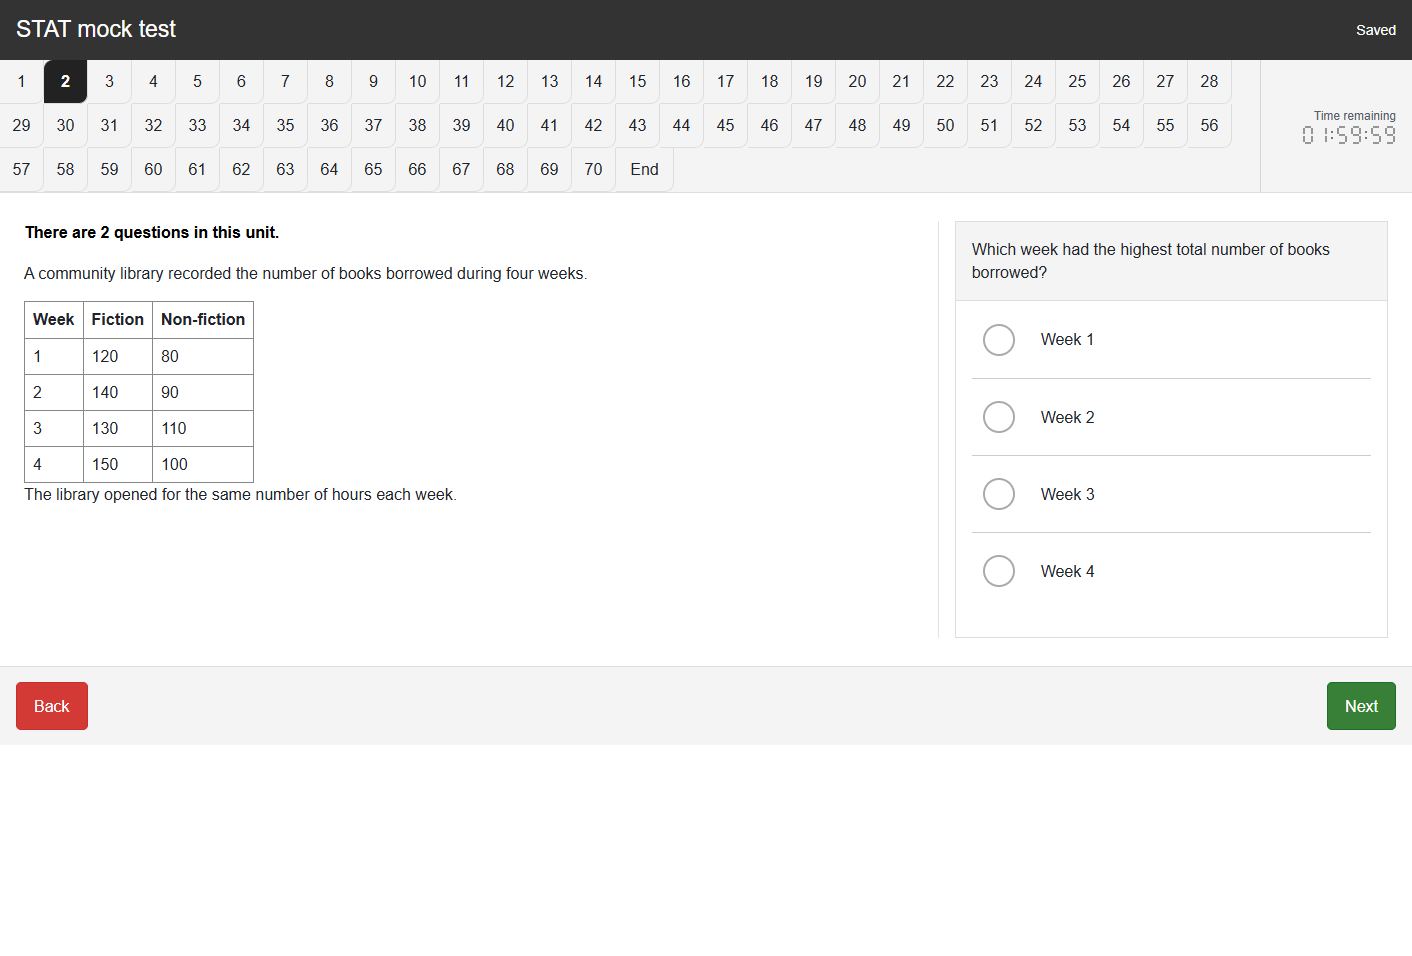
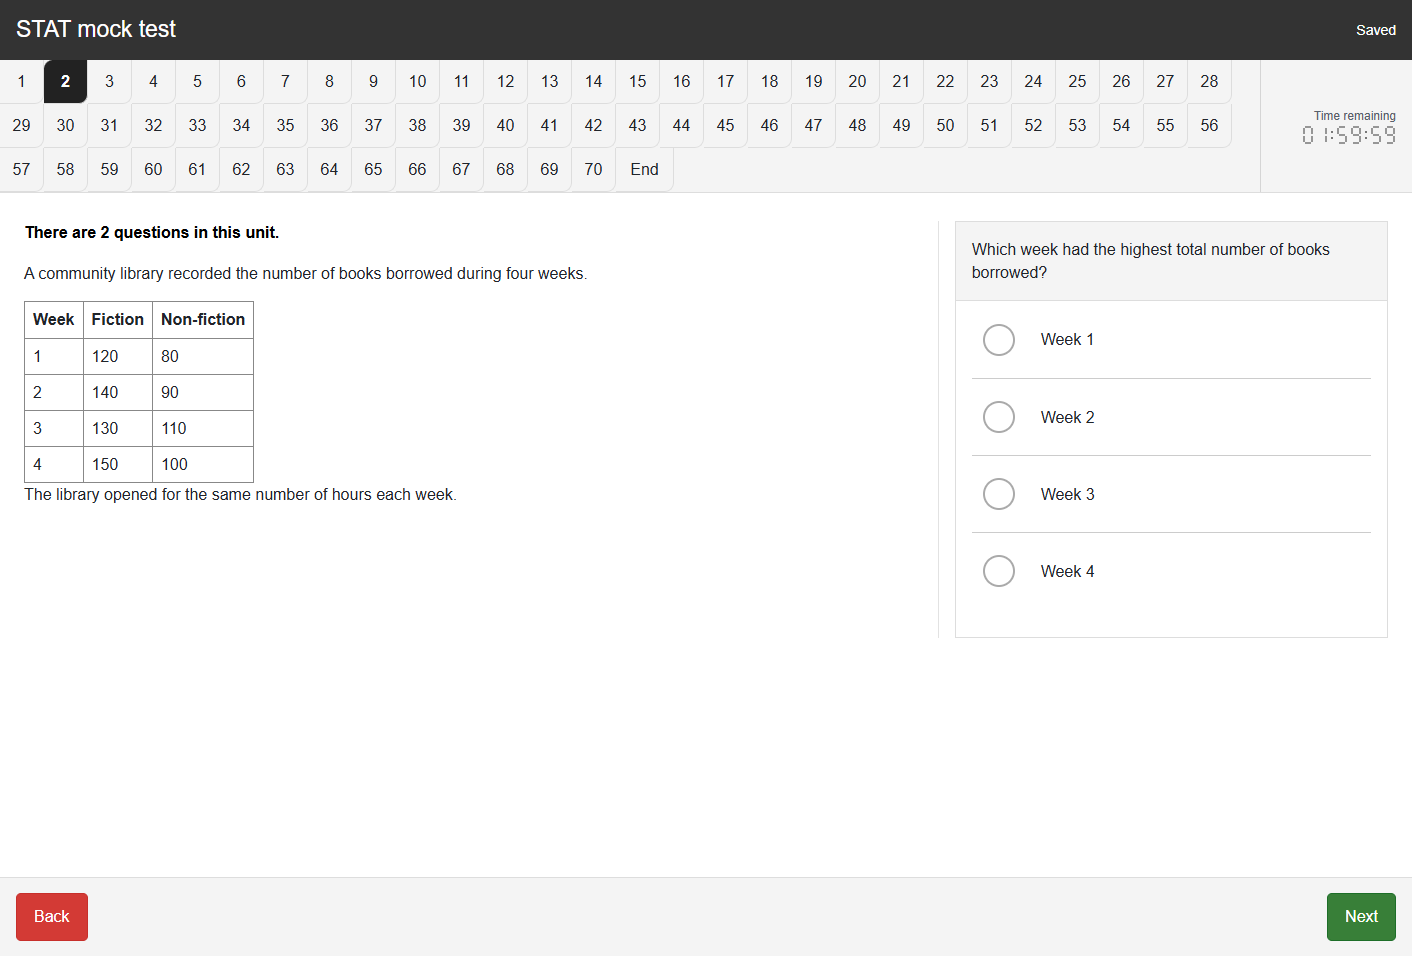
Keep exam navigation below content and at the viewport bottom

diff --git a/web/styles.css b/web/styles.css
@@ -69,7 +69,14 @@ a { color: #1758a8; }
   border: 0 !important;
 }
 
-.app-shell { min-height: 100vh; }
+.app-shell {
+  min-height: 100vh;
+  min-height: 100dvh;
+  display: flex;
+  flex-direction: column;
+}
+
+.site-header, .exam-toolbar, .exam-footer { flex-shrink: 0; }
 
 .site-header {
   min-height: 60px;
@@ -167,7 +174,7 @@ a { color: #1758a8; }
 .timer svg { width: 12px; height: 20px; }
 .timer svg.timer-colon { width: 4px; }
 
-.main-content { padding: 28px 16px; }
+.main-content { flex: 1 0 auto; padding: 28px 16px; }
 
 .exam-view { margin: 0 -8px; }
 

diff --git a/VALIDATION.md b/VALIDATION.md
@@ -20,6 +20,6 @@ The importing agent compares text and figures with the source during conversion.
 
 The exam screenshot was captured at 1412 × 956 from an isolated local GAT sitting. It shows the whole desktop viewport with unit material, one question, navigation, timer and Back/Next controls. Original sample content replaces third-party question material in the published image. The statistics report uses synthetic answers and timing in a disposable database. No personal attempt records or browser profile were used.
 
-Both screenshots were inspected for legibility, missing content and overflow; the capture reported no page errors. These checks do not establish pixel-perfect equivalence to official exam software, mobile layout, accessibility conformance or difficulty calibration. The interface reference date is 25 October 2026; official software may change.
+Both screenshots were inspected for legibility, missing content and overflow; the capture reported no page errors. Footer geometry was checked at 1412 × 956, 1440 × 1200, 1024 × 768 and 390 × 844, including tall stimulus and question content. It follows all question content and reaches the viewport bottom when the content is shorter. These checks do not establish pixel-perfect equivalence to official exam software, accessibility conformance or difficulty calibration. The interface reference date is 25 October 2026; official software may change.
 
 For an optional independent source review, `scripts/release_check.py --candidate` additionally requires a hash-bound `QA-review.json`. This is separate from the default single-agent import path.
